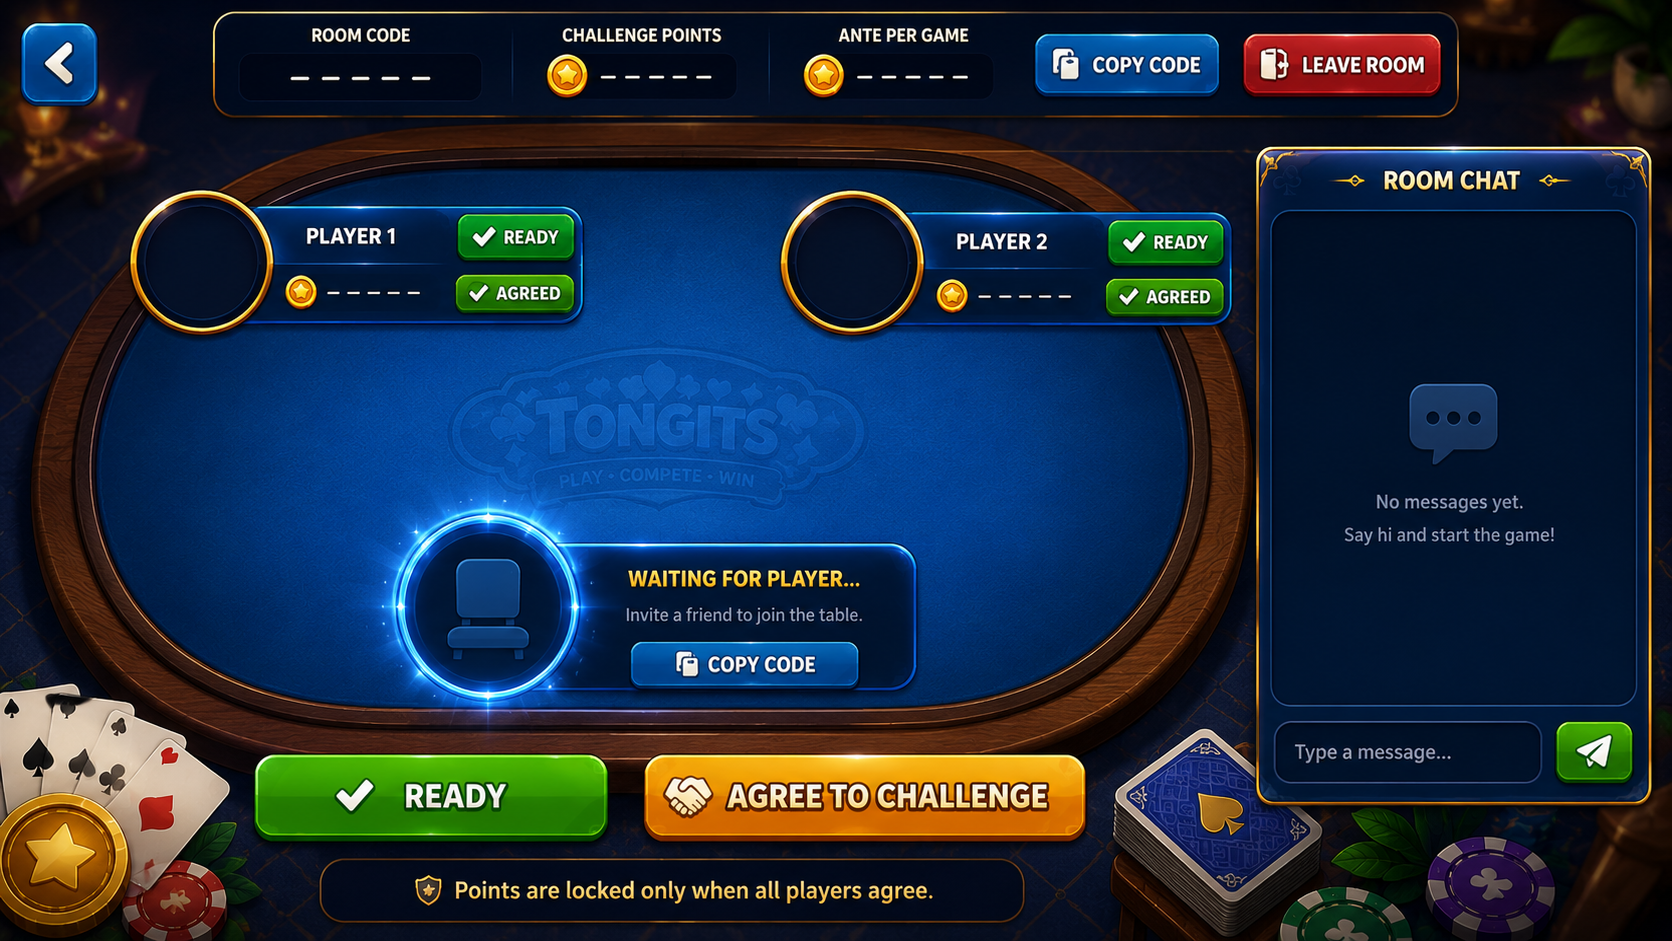
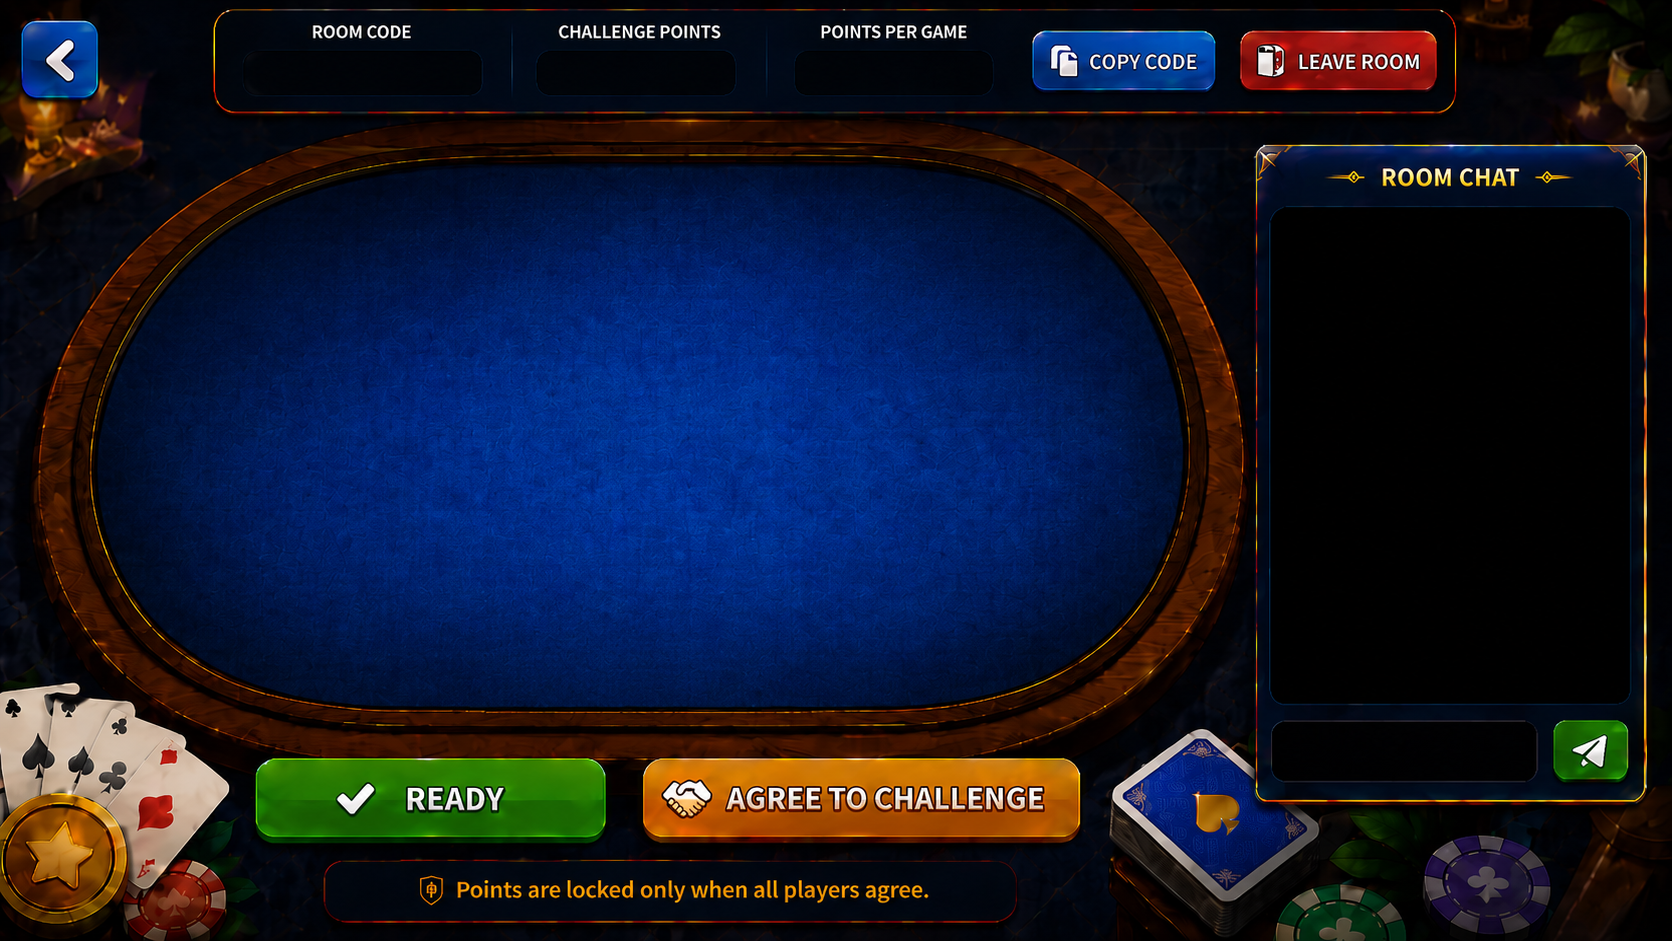
Tongits: sliced waiting-room art (fixes baked-text collisions)
Switch the waiting room from one baked image (which had hardcoded
PLAYER 1/2, READY/AGREED, "No messages") to a plain base
(waiting-room.png) plus transparent per-seat components placed
dynamically:
- seat-occupied.png / seat-empty.png cropped from the source art
  (occupied piece had a baked checkerboard bg — keyed out via edge
  flood-fill so interior badge text is preserved).
- Each seated player renders the occupied frame with the real name,
  challenge stake, avatar initials, and READY/AGREED badges dimmed
  until actually done; empty seats render the "waiting for player"
  frame with a working COPY CODE. Blank fields = no text collision.
- Chat, top-bar values, and buttons overlay the plain base cleanly.

Composition alignment verified against the art.

diff --git a/src/components/TongitsWaitingRoomArt.tsx b/src/components/TongitsWaitingRoomArt.tsx
@@ -18,43 +18,38 @@ import { TONGITS_ART } from "./AssetImage";
 
 type Box = { l: number; t: number; w: number; h: number };
 
-// Measured against the 1672×941 waiting-room art.
+// Base overlays (against the plain Waiting Area base).
 const C = {
   back: { l: 1.2, t: 3, w: 5, h: 7.6 },
-  roomCode: { l: 13.5, t: 6.5, w: 16, h: 4 },
-  challenge: { l: 35, t: 6.5, w: 8, h: 4 },
-  ante: { l: 50.5, t: 6.5, w: 8, h: 4 },
-  copyTop: { l: 61.9, t: 4.3, w: 10.8, h: 6.4 },
-  leave: { l: 73.9, t: 4.3, w: 13.8, h: 6.4 },
+  roomCode: { l: 13.5, t: 5.8, w: 16, h: 4.5 },
+  challenge: { l: 35, t: 5.8, w: 8, h: 4.5 },
+  ante: { l: 50.5, t: 5.8, w: 8, h: 4.5 },
+  copyTop: { l: 61.9, t: 3.5, w: 10.8, h: 6.6 },
+  leave: { l: 73.9, t: 3.5, w: 13.8, h: 6.6 },
   readyBtn: { l: 16.7, t: 80.2, w: 19.4, h: 9.2 },
   agreeBtn: { l: 38.3, t: 80.2, w: 26.9, h: 9.2 },
-  copyCenter: { l: 37.7, t: 68, w: 13.8, h: 5.5 },
   chatMsgs: { l: 76.3, t: 22.8, w: 21.5, h: 53 },
   chatInput: { l: 76.3, t: 77.4, w: 16.4, h: 5.7 },
   chatSend: { l: 93.8, t: 77.2, w: 4.2, h: 6.2 },
 };
 
-// Per-seat overlay regions (art positions 0=top-left, 1=top-right, 2=center).
-const SEATS: { avatar: Box; name: Box; coin: Box; ready?: Box; agreed?: Box }[] = [
-  {
-    avatar: { l: 8, t: 21.8, w: 6.9, h: 12.2 },
-    name: { l: 17.6, t: 24.2, w: 8, h: 3 },
-    coin: { l: 19.1, t: 29.5, w: 7.8, h: 2.9 },
-    ready: { l: 27.8, t: 22.8, w: 6, h: 4.8 },
-    agreed: { l: 27.2, t: 28.7, w: 6.9, h: 4.8 },
-  },
-  {
-    avatar: { l: 46.4, t: 21.8, w: 7.2, h: 12.2 },
-    name: { l: 56.5, t: 24.2, w: 8, h: 3 },
-    coin: { l: 58, t: 29.5, w: 7.5, h: 2.9 },
-    ready: { l: 66.4, t: 22.8, w: 6.3, h: 4.8 },
-    agreed: { l: 66.1, t: 28.7, w: 7.2, h: 4.8 },
-  },
-  {
-    avatar: { l: 23.6, t: 55.8, w: 9.9, h: 17.5 },
-    name: { l: 20, t: 74, w: 17, h: 3 },
-    coin: { l: 20, t: 77, w: 17, h: 2.5 },
-  },
+// Placed seat components (sizes preserve each PNG's aspect). Anchors are the
+// ring-center position on the canvas; left/top are derived so the ring lands there.
+const OCC = {
+  W: 27,
+  H: 15.7,
+  ringcx: 0.151,
+  ringcy: 0.49,
+  name: { l: 0.31, t: 0.17, w: 0.39, h: 0.3 },
+  coin: { l: 0.44, t: 0.6, w: 0.26, h: 0.22 },
+  ready: { l: 0.726, t: 0.187, w: 0.25, h: 0.3 },
+  agreed: { l: 0.726, t: 0.57, w: 0.25, h: 0.3 },
+};
+const EMP = { W: 22.5, H: 16.5, ringcx: 0.198, ringcy: 0.5, copy: { l: 0.47, t: 0.66, w: 0.43, h: 0.2 } };
+const ANCHORS = [
+  { x: 11.5, y: 28 },
+  { x: 50, y: 28 },
+  { x: 24, y: 60 },
 ];
 
 function initials(name: string) {
@@ -66,14 +61,12 @@ function Zone({
   box,
   children,
   onClick,
-  className,
   style,
   title,
 }: {
   box: Box;
   children?: React.ReactNode;
   onClick?: () => void;
-  className?: string;
   style?: React.CSSProperties;
   title?: string;
 }) {
@@ -81,7 +74,6 @@ function Zone({
     <div
       title={title}
       onClick={onClick}
-      className={className}
       style={{
         position: "absolute",
         left: `${box.l}%`,
@@ -107,7 +99,6 @@ export function TongitsWaitingRoomArt({ code, room }: { code: string; room: Tong
   const [busy, setBusy] = useState<string | null>(null);
   const [error, setError] = useState<string | null>(null);
   const [text, setText] = useState("");
-  const [copied, setCopied] = useState(false);
   const lastSent = useRef(0);
   const scrollRef = useRef<HTMLDivElement>(null);
 
@@ -132,10 +123,7 @@ export function TongitsWaitingRoomArt({ code, room }: { code: string; room: Tong
     }
   }
   function copyCode() {
-    navigator.clipboard.writeText(room.roomCode).then(() => {
-      setCopied(true);
-      setTimeout(() => setCopied(false), 1500);
-    });
+    navigator.clipboard.writeText(room.roomCode).catch(() => {});
   }
   async function send() {
     const { db } = getFirebase();
@@ -165,12 +153,84 @@ export function TongitsWaitingRoomArt({ code, room }: { code: string; room: Tong
 
         {error && (
           <div
-            className="absolute left-1/2 -translate-x-1/2 px-3 py-1.5 rounded-lg text-white text-center z-20"
+            className="absolute left-1/2 -translate-x-1/2 px-3 py-1.5 rounded-lg text-white text-center z-30"
             style={{ top: "13%", background: "rgba(200,40,40,0.9)", fontSize: "1.1cqw" }}
           >
             {error}
           </div>
         )}
+
+        {/* seats */}
+        {ANCHORS.map((a, i) => {
+          const p = bySeat(i);
+          if (p) {
+            const left = a.x - OCC.ringcx * OCC.W;
+            const top = a.y - OCC.ringcy * OCC.H;
+            const abs = (f: { l: number; t: number; w: number; h: number }): Box => ({
+              l: left + f.l * OCC.W,
+              t: top + f.t * OCC.H,
+              w: f.w * OCC.W,
+              h: f.h * OCC.H,
+            });
+            return (
+              <div key={i}>
+                <img
+                  src={TONGITS_ART.seatOccupied}
+                  alt=""
+                  style={{ position: "absolute", left: `${left}%`, top: `${top}%`, width: `${OCC.W}%`, height: `${OCC.H}%` }}
+                />
+                {/* avatar in the ring */}
+                <Zone box={{ l: left, t: top, w: OCC.ringcx * 2 * OCC.W, h: OCC.H }}>
+                  <div
+                    style={{
+                      height: "62%",
+                      aspectRatio: "1",
+                      borderRadius: "50%",
+                      background: "#0a1730",
+                      color: gold,
+                      display: "flex",
+                      alignItems: "center",
+                      justifyContent: "center",
+                      fontWeight: 800,
+                      fontSize: "1.7cqw",
+                    }}
+                  >
+                    {initials(p.name)}
+                  </div>
+                </Zone>
+                <Zone box={abs(OCC.name)}>
+                  <span className="truncate" style={{ color: "#fff", fontWeight: 700, fontSize: "1.3cqw", maxWidth: "100%" }}>
+                    {p.name}
+                  </span>
+                </Zone>
+                <Zone box={abs(OCC.coin)} style={{ justifyContent: "flex-start" }}>
+                  <span style={{ color: "#fff", fontWeight: 700, fontSize: "1.15cqw", fontFamily: "monospace", paddingLeft: "0.5cqw" }}>
+                    {room.challengePoints}
+                  </span>
+                </Zone>
+                {!p.isReady && <Zone box={abs(OCC.ready)} style={{ background: "rgba(8,14,28,0.72)", borderRadius: "0.8cqw" }} />}
+                {!p.agreedToChallenge && <Zone box={abs(OCC.agreed)} style={{ background: "rgba(8,14,28,0.72)", borderRadius: "0.8cqw" }} />}
+              </div>
+            );
+          }
+          // empty seat → waiting-for-player component + COPY CODE
+          const left = a.x - EMP.ringcx * EMP.W;
+          const top = a.y - EMP.ringcy * EMP.H;
+          return (
+            <div key={i}>
+              <img
+                src={TONGITS_ART.seatEmpty}
+                alt=""
+                style={{ position: "absolute", left: `${left}%`, top: `${top}%`, width: `${EMP.W}%`, height: `${EMP.H}%` }}
+              />
+              <Zone
+                box={{ l: left + EMP.copy.l * EMP.W, t: top + EMP.copy.t * EMP.H, w: EMP.copy.w * EMP.W, h: EMP.copy.h * EMP.H }}
+                onClick={copyCode}
+                title="Copy code"
+              />
+            </div>
+          );
+        })}
 
         {/* top bar */}
         <Zone box={C.back} onClick={() => run("leave", () => leaveRoom(code), () => router.push("/tongits"))} title="Leave" />
@@ -185,70 +245,14 @@ export function TongitsWaitingRoomArt({ code, room }: { code: string; room: Tong
         <Zone box={C.ante}>
           <span style={{ color: "#fff", fontWeight: 700, fontSize: "1.4cqw", fontFamily: "monospace" }}>{room.jackpotAnte}</span>
         </Zone>
-        <Zone box={C.copyTop} onClick={copyCode} title={copied ? "Copied!" : "Copy code"} />
+        <Zone box={C.copyTop} onClick={copyCode} title="Copy code" />
         <Zone box={C.leave} onClick={() => run("leave", () => leaveRoom(code), () => router.push("/tongits"))} title="Leave room" />
 
-        {/* seats */}
-        {SEATS.map((s, i) => {
-          const p = bySeat(i);
-          return (
-            <div key={i}>
-              {p ? (
-                <>
-                  <Zone box={s.avatar}>
-                    <div
-                      style={{
-                        width: "80%",
-                        aspectRatio: "1",
-                        borderRadius: "50%",
-                        background: "#0d1a3d",
-                        color: gold,
-                        display: "flex",
-                        alignItems: "center",
-                        justifyContent: "center",
-                        fontWeight: 700,
-                        fontSize: "1.8cqw",
-                      }}
-                    >
-                      {initials(p.name)}
-                    </div>
-                  </Zone>
-                  <Zone box={s.name}>
-                    <span
-                      className="truncate"
-                      style={{
-                        color: "#fff",
-                        fontWeight: 700,
-                        fontSize: "1.2cqw",
-                        background: "rgba(4,12,32,0.72)",
-                        padding: "0 0.6cqw",
-                        borderRadius: "0.4cqw",
-                        maxWidth: "100%",
-                      }}
-                    >
-                      {p.name}
-                    </span>
-                  </Zone>
-                  <Zone box={s.coin}>
-                    <span style={{ color: "#fff", fontSize: "1.05cqw", fontFamily: "monospace" }}>{room.challengePoints}</span>
-                  </Zone>
-                  {/* dim the painted READY / AGREED badge when not yet done */}
-                  {s.ready && !p.isReady && <Zone box={s.ready} style={{ background: "rgba(12,20,38,0.72)", borderRadius: "0.6cqw" }} />}
-                  {s.agreed && !p.agreedToChallenge && <Zone box={s.agreed} style={{ background: "rgba(12,20,38,0.72)", borderRadius: "0.6cqw" }} />}
-                </>
-              ) : i === 2 ? (
-                // empty center seat → wire the painted COPY CODE button
-                <Zone box={C.copyCenter} onClick={copyCode} title="Copy code" />
-              ) : null}
-            </div>
-          );
-        })}
-
-        {/* bottom actions (or START when everyone's locked in) */}
+        {/* bottom actions / start */}
         {ready ? (
           <Zone box={{ l: 16.7, t: 80.2, w: 48.5, h: 9.2 }} onClick={() => run("start", () => startGame(code))} title="Start game">
             <div
-              className="w-[92%] h-[80%] rounded-2xl flex items-center justify-center gap-2"
+              className="w-[92%] h-[80%] rounded-2xl flex items-center justify-center"
               style={{ background: "linear-gradient(180deg,#34d07a,#1f9e5a)", boxShadow: "0 6px 20px rgba(52,208,122,0.5)" }}
             >
               {busy === "start" ? (

diff --git a/src/components/AssetImage.tsx b/src/components/AssetImage.tsx
@@ -28,7 +28,9 @@ export function AssetImage({
 /** Central registry of Tongits art slots (drop files into /public/tongits/). */
 export const TONGITS_ART = {
   lobbyFull: "/tongits/lobby-full.png", // full baked lobby art (interactive overlay)
-  waitingRoom: "/tongits/waiting-room.png", // baked waiting-room art (interactive overlay)
+  waitingRoom: "/tongits/waiting-room.png", // plain waiting-room base (seats added via components)
+  seatOccupied: "/tongits/seat-occupied.png", // per-seat frame for a seated player
+  seatEmpty: "/tongits/seat-empty.png", // per-seat "waiting for player" frame
   tableBg: "/tongits/table-bg.webp",
   cardBack: "/tongits/card-back.webp",
   logo: "/tongits/logo.png",